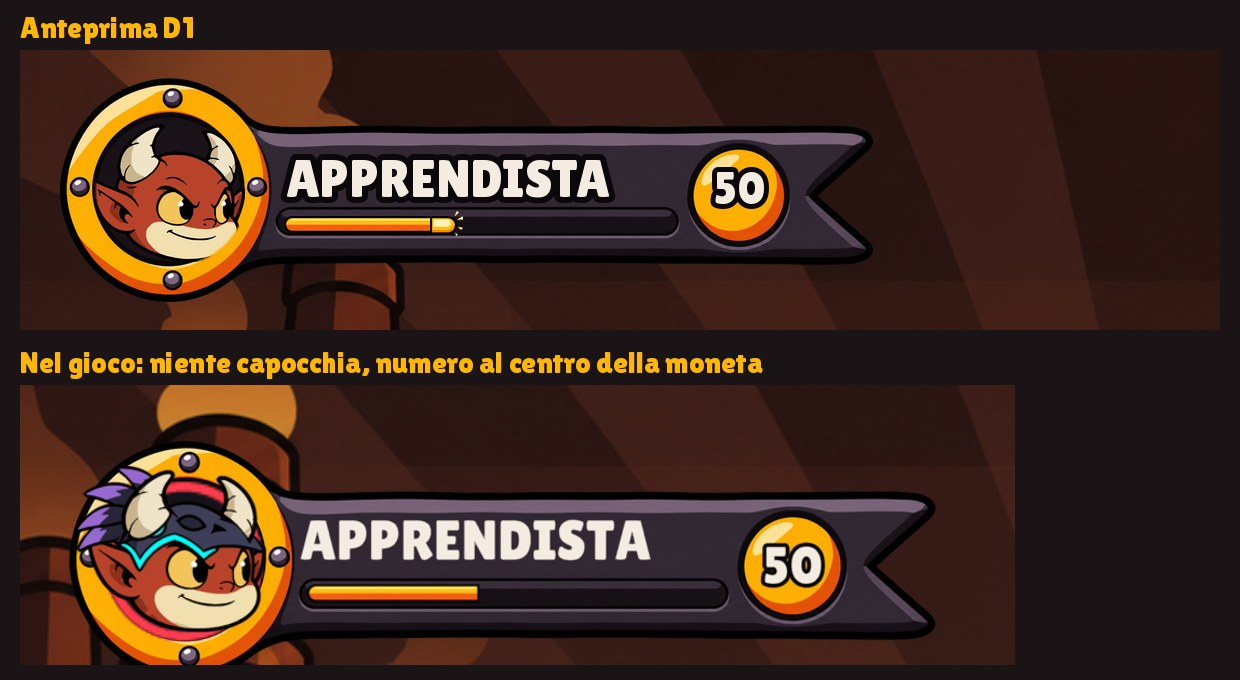
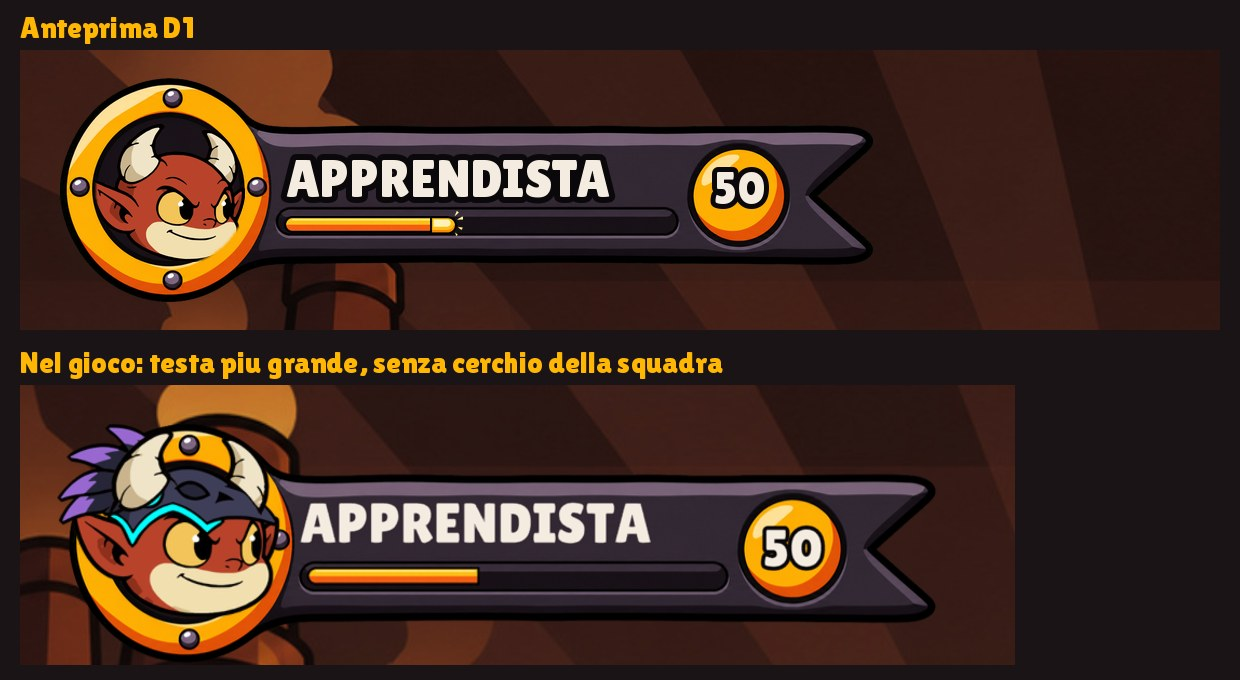
Home: testa più grande nell'anello, senza il cerchio della squadra
Claude-Session: https://claude.ai/code/session_01XmXLjkQ96F8kQsS2vjRQ5a

Changed region(s): [[0.0306, 0.6176, 0.7661, 0.9882], [0.1226, 0.4941, 0.6129, 0.5559]]

diff --git a/docs/decisioni/interfaccia.md b/docs/decisioni/interfaccia.md
@@ -185,4 +185,4 @@ codice. Regole della roadmap: [../roadmap.md](../roadmap.md) area 21.
 | 17 nov | **Correzioni dell'audit grafico** (Sergio: «Applicale tutte», più i suoi punti; pagina dell'audit https://claude.ai/artifact/LSCFSnffDdG9izNpr4Pra9; la 14, il fazzoletto blu della storia, non si fa: «non mi interessa per ora»). **Pulsante primario**: la scritta sta al centro della faccia libera della gemma (fra la fiamma e i cristalli, misurata sul disegno: `primario_*` in `pieces.lua`), alla stessa grandezza acceso e spento; anche VAI! delle vignette e OK della scheda dell'arma sono la gemma. **Targa del profilo e targhette delle valute** più grandi (la targa del 30%), senza ingrandire disegni oltre la loro risoluzione. **Pillola della coda**: una sola (guscio, pallino rovente, scritta sempre dentro, larga quanto il testo), nella home al centro sotto il filo, negli altri menu corta sotto il filo, sul podio in alto accanto al portafoglio, in partita corta accanto all'ingranaggio; via il gettone con la testa di Favilla. **Sala d'attesa** come le altre schermate: titolo giallo, la freccia in basso a sinistra esce dalla coda (c'è scritto sotto), a destra la sola piastra TORNA AI MENU · RESTI IN CODA, niente ingranaggio. **Impostazioni**: i tasti del controller su un pannello loro, due colonne fisse. **Zaino**: pezzo scelto su tre righe corte, nomi delle famiglie accanto ai pallini, VEDI TUTTE sempre alla stessa altezza (anche in Armeria e Bottega). **Campagna**: lucchetto nell'angolo, una sola griglia, nomi lunghi su due righe, targhe dei capitoli a 16. **Podio e fine livello**: guadagni su un pannello a colonne fisse, il campo si spegne sotto, RIPROVA e CAMPAGNA sotto il filo. **Profilo**: legenda PRIMARIE e SECONDARIE sopra il danno per arma; al posto dei tondi le icone dei record di Codex (WB-069, foglio 1). **HUD**: baratto, OGGETTI, ultimo giro e nome sopra il diavoletto a 16. La riga gialla sul bordo dopo le porte della home esce con la pagina. Scelte di Claude: testi più corti dove a 16 non entravano («ESCI DALLA CODA» sulla porta della campagna, «NIENTE IN ARRIVO» e «TRA 2H» sotto EVENTI); in sala d'attesa col controller B esce dalla coda e il tasto dell'ingranaggio torna ai menu; vita e stato sopra il diavoletto a 13 (a 16 sarebbero più larghi della barra); le altre scritte piccole del punteggio (TURNO, bilancio) restano come sono, l'audit non le chiedeva. | `client/ui/kit.lua`, `client/ui/pill.lua`, `client/menu/`, `client/battle/`, questa PR |
 | 18 nov | **Codice della versione nelle IMPOSTAZIONI** (Sergio: «in futuro mettilo il codice della versione», non capiva quale APK avesse installato). In basso a destra sotto il filo, piccolo e grigio (16, allineato alla scritta HOME): «VERSIONE 48aa353», lo stesso codice della didascalia di Telegram; sugli APK e sul web di un ramo «· PROVA, NON È MAIN»; sulle build fatte a mano dall'editor «VERSIONE LOCALE». Il codice lo scrivono le Actions nelle impostazioni di build (`megablast.version`, `megablast.test` in `apk.yml` e `tools/web/build.sh`). Scelte di Claude: sotto il filo e non sotto le scelte (lì toccava il filo e si leggeva male sul dipinto); niente nome del ramo (troppo lungo), basta PROVA come nella didascalia. | `client/menu/settings.lua`, questa PR |
 | 18 nov | **Scheda del pezzo unica, zaino che potenzia, schede in alto senza targhetta** (Sergio: tocco a sinistra nello zaino = solo filtro, firma che dice solo il nome, uscire dallo zaino per potenziare, livello non leggibile; «le tacchette come nell'evoluzione»; «questi pulsanti [targhe chiare] non li vorrei usare per nulla»; «non è chiaro a cosa si riferiscano queste 2100 scaglie»). La scheda dell'ARMERIA (POTENZIA) è un pezzo solo, `client/menu/bench.lua`, che lo ZAINO apre al posto della griglia: il livello sono le 30 tacche dello SCATTO (fatte nel colore del grado, la prossima brace, le grandi a 10 20 30 nel colore del grado che aprono), la firma dice cosa dà al grado acceso (spenta: cosa darà) con tre gemme, la Prova accanto al livello, il prezzo attaccato a +1 LIVELLO con «per il livello N» (o in rosso quanto manca). Nello ZAINO un pezzo indossato toccato a sinistra diventa il pezzo scelto (e la griglia mostra il suo posto); POTENZIA in basso o un secondo tocco sul pezzo apre la scheda, la freccia torna ai pezzi. Animazioni: la tacca comprata cade bianca con scintille e il pezzo prende il colpo, la gemma della firma scoppia, nello SCATTO le tacche si riempiono una a una, la scheda entra da destra. Le schede accanto al titolo (zaino, armeria, profilo, eventi) sono solo parole, con un pezzo del filo di brace sotto quella attiva che scorre quando cambi. Scelte di Claude: INDOSSA nella scheda non c'è (si indossa dalla griglia); tolta la riga «ce l'hai addosso» (lo dice la spunta sull'icona); il pulsante secondario e le monete coi colori iniziali (Ossidiana nera col filo magenta, Scaglia a scaglia con la fiammella) vanno a Codex con WB-071, fino ad allora restano le targhe chiare. | `client/menu/bench.lua`, `client/menu/backpack.lua`, `client/menu/armory.lua`, `client/ui/kit.lua`, `client/ui/step_scene.lua`, questa PR |
-| 18 nov | **Riquadro del profilo in home: lo stendardo** (Sergio: il vecchio era «tutto scomposto, non lineare, cose che sembrano sovrapposte», la barra «tutta storta»; fra le anteprime A-D coi pezzi di Codex, https://claude.ai/artifact/6BUykPA6j1pzZW9iQmRVCg, sceglie D1, «con il numero del livello centrato»). Un pezzo solo di WB-075: anello d'oro con la faccia, stendardo di ferro col nome, la barra dell'esperienza nel suo incavo dritto, il livello nella moneta d'oro (solo il numero, centrato, con il contorno d'inchiostro). Niente punta incandescente sulla barra (Sergio: «o metti bene la capocchia, oppure lasci senza»). Scartate A (medaglione col sigillo), B (una piastra sola), C (filo di brace) e D2. Scelte di Claude: faccia larga quanto il disco scuro dell'anello; nome a 26; con poca esperienza la barra resta un trattino tondo. | `client/menu/home.lua`, `tools/grafica/fucina.py`, questa PR |
+| 18 nov | **Riquadro del profilo in home: lo stendardo** (Sergio: il vecchio era «tutto scomposto, non lineare, cose che sembrano sovrapposte», la barra «tutta storta»; fra le anteprime A-D coi pezzi di Codex, https://claude.ai/artifact/6BUykPA6j1pzZW9iQmRVCg, sceglie D1, «con il numero del livello centrato»). Un pezzo solo di WB-075: anello d'oro con la faccia, stendardo di ferro col nome, la barra dell'esperienza nel suo incavo dritto, il livello nella moneta d'oro (solo il numero, centrato, con il contorno d'inchiostro). Niente punta incandescente sulla barra (Sergio: «o metti bene la capocchia, oppure lasci senza»). Scartate A (medaglione col sigillo), B (una piastra sola), C (filo di brace) e D2. Poi (Sergio: «la testa un po' più grande, basta che non esca da sotto, e togliere il cerchietto rosso della squadra, tanto in home non hai una squadra»): solo la testa, più grande del disco, che può uscire sopra e ai lati ma col mento dentro. Scelte di Claude: nome a 26; con poca esperienza la barra resta un trattino tondo. | `client/menu/home.lua`, `tools/grafica/fucina.py`, questa PR |

diff --git a/docs/handoff/WB-075_riquadro_profilo_home.md b/docs/handoff/WB-075_riquadro_profilo_home.md
@@ -133,4 +133,4 @@ Verificati i contorni scuri, i dischi del ritratto vuoti e l'assenza di scritte,
 ## Resoconto di Claude
 
 - 18 nov: Sergio sceglie lo stendardo D1 («facciamo la d1, ma con il numero del livello centrato»; della punta della barra: «o metti bene la capocchia, oppure lasci senza, non ne capisco il senso»). Nel gioco `stendardo_1` intero (`stendardo`, 805×224, a schermo alto 112) e il riempimento dritto di `barra_2` senza la punta (`barra_stendardo`, capi corti, così con poca esperienza resta corta): li taglia `fai_stendardo` in `tools/grafica/fucina.py`. `client/menu/home.lua` mette faccia, nome, barra e numero nei punti misurati sul disegno (`BANNER`); il numero è al centro della moneta, avorio con il contorno d'inchiostro. Tolti dalla home guscio, tondo, riga scura e barra di brace (restano dove li usano altre schermate). Non usati: `anello`, `piastra`, `tizzone`, `barra_1`, `stendardo_2` (restano nel ramo). Simulazione OK (scenario `riquadro_profilo.txt`), `tutti.sh` OK. Foto: `docs/handoff/img/WB-075_bozza_e_gioco.jpg` (livello 50 e barra al 42% messi a mano solo per la foto).
-
+- 18 nov 15:08 Sergio: testa più grande senza uscire da sotto, via il cerchio della squadra. `score.face(..., bare)` toglie disco e anello; in home la testa è larga 88 e sale quanto basta perché il mento resti nel disco.
